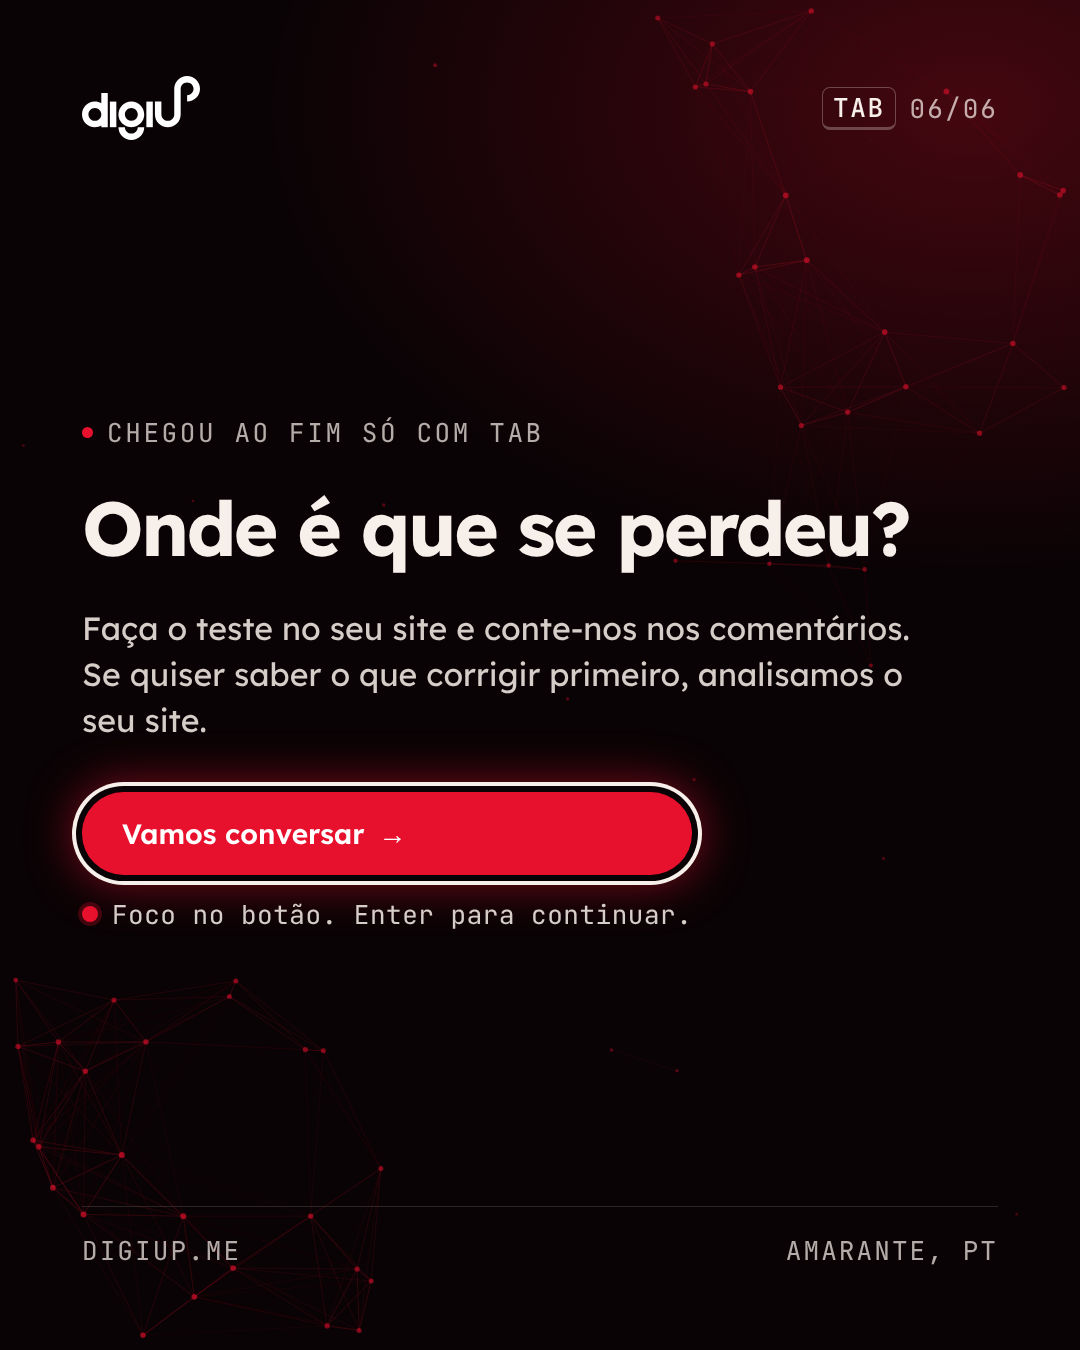
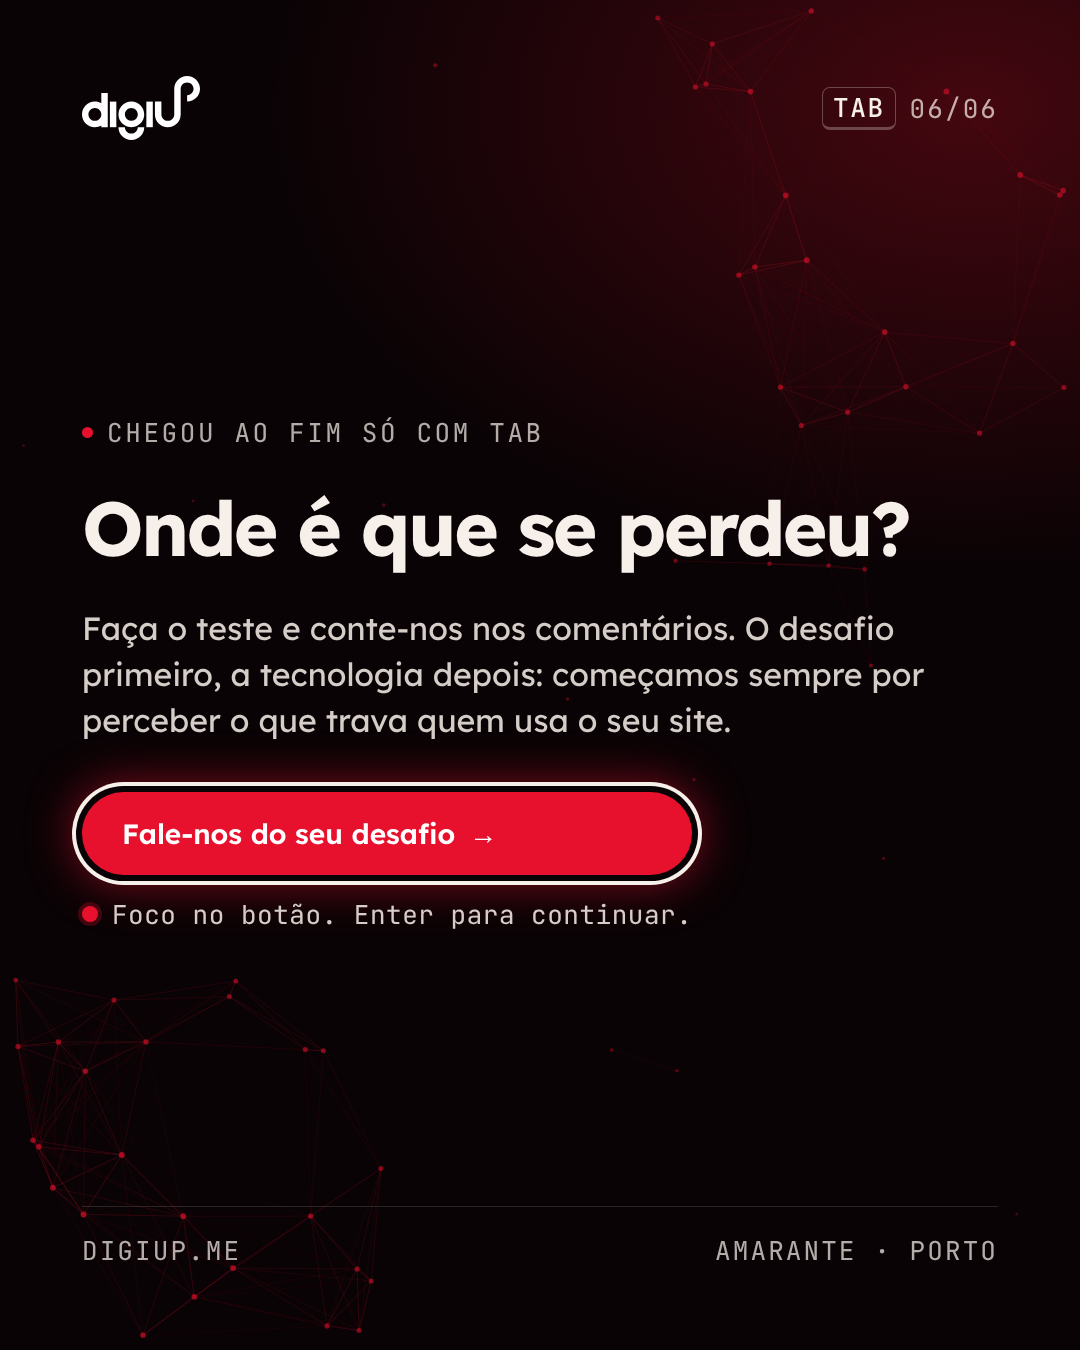
Alinhar os posts com o posicionamento do site
CTA «Fale-nos do seu desafio» nos três carrosséis, descrição do
digiSHIELD igual à do site, fecho do post de acessibilidade com «o
desafio primeiro, a tecnologia depois» e rodapé «Amarante · Porto».

Claude-Session: https://claude.ai/code/session_0173GtUhSHhHFQaxLRUGv3dG

Changed region(s): [[0.0611, 0.4356, 0.8556, 0.56], [0.1222, 0.5911, 0.4278, 0.6222], [0.6722, 0.9022, 0.9167, 0.9333]]

diff --git a/post-digishield/carrossel.html b/post-digishield/carrossel.html
@@ -170,9 +170,9 @@ body{background:#17181a;font-family:var(--du-font-sans);display:flex;flex-wrap:w
   <div style="margin-top:auto;display:flex;flex-direction:column;gap:32px;align-items:flex-start;position:relative;z-index:1">
     <div class="eyebrow"><span class="dot"></span>digiSHIELD · Proteção contínua</div>
     <div class="h" style="font-size:76px;max-width:900px">Reconheceu dois destes sinais?</div>
-    <p class="body">A segurança digital exige acompanhamento, atualizações, monitorização e capacidade de resposta. É isso que o digiSHIELD faz pelo seu site.</p>
+    <p class="body">O digiSHIELD protege websites e aplicações com monitorização, manutenção e segurança contínuas.</p>
     <div class="feat"><span>Monitorização ativa</span><span>Resposta rápida</span><span>Ambientes mais seguros</span></div>
-    <div style="display:flex;align-items:center;gap:22px;margin-top:6px"><span class="pill">Vamos conversar <span>→</span></span><span class="disc">↗</span></div>
+    <div style="display:flex;align-items:center;gap:22px;margin-top:6px"><span class="pill">Fale-nos do seu desafio <span>→</span></span><span class="disc">↗</span></div>
   </div>
   <div class="meta" style="margin-top:48px"><span>Envie «SHIELD» por mensagem</span><span>digiup.me</span></div>
 </section>

diff --git a/post-exemplo/carrossel.html b/post-exemplo/carrossel.html
@@ -153,13 +153,13 @@ body{background:#17181a;font-family:var(--du-font-sans);display:flex;flex-wrap:w
   <div style="margin:auto 0;display:flex;flex-direction:column;gap:38px;align-items:flex-start">
     <div class="eyebrow"><span class="dot"></span>Chegou ao fim só com Tab</div>
     <div class="h" style="font-size:76px;max-width:880px">Onde é que se perdeu?</div>
-    <p class="body">Faça o teste no seu site e conte-nos nos comentários. Se quiser saber o que corrigir primeiro, analisamos o seu site.</p>
+    <p class="body">Faça o teste e conte-nos nos comentários. O desafio primeiro, a tecnologia depois: começamos sempre por perceber o que trava quem usa o seu site.</p>
     <div style="display:flex;flex-direction:column;gap:22px;margin-top:10px">
-      <span class="pill focus">Vamos conversar <span>→</span></span>
+      <span class="pill focus">Fale-nos do seu desafio <span>→</span></span>
       <span class="focusnote">Foco no botão. Enter para continuar.</span>
     </div>
   </div>
-  <div class="meta"><span>digiup.me</span><span>Amarante, PT</span></div>
+  <div class="meta"><span>digiup.me</span><span>Amarante · Porto</span></div>
 </section>
 
 </body>

diff --git a/post-eaa/carrossel.html b/post-eaa/carrossel.html
@@ -158,10 +158,10 @@ body{background:#17181a;font-family:var(--du-font-sans);display:flex;flex-wrap:w
     <div class="eyebrow" style="color:var(--du-ink-72)"><span class="dot" style="background:var(--du-crimson)"></span>Próximo passo</div>
     <div class="h" style="font-size:84px">O seu site cumpre?</div>
     <p class="body">Envie «EAA» por mensagem. Analisamos o seu site e dizemos-lhe o que corrigir primeiro.</p>
-    <div style="display:flex;align-items:center;gap:22px"><span class="pill">Vamos conversar <span>→</span></span><span class="disc">↗</span></div>
+    <div style="display:flex;align-items:center;gap:22px"><span class="pill">Fale-nos do seu desafio <span>→</span></span><span class="disc">↗</span></div>
   </div>
   <div style="font-size:26px;line-height:1.45;color:var(--du-ink-72);margin-bottom:26px;max-width:880px">Resumo informativo, não é aconselhamento jurídico. Fontes: Diretiva (UE) 2019/882 e Decreto-Lei n.º 82/2022.</div>
-  <div class="meta"><span>digiup.me</span><span>Amarante, PT</span></div>
+  <div class="meta"><span>digiup.me</span><span>Amarante · Porto</span></div>
 </section>
 
 </body>
